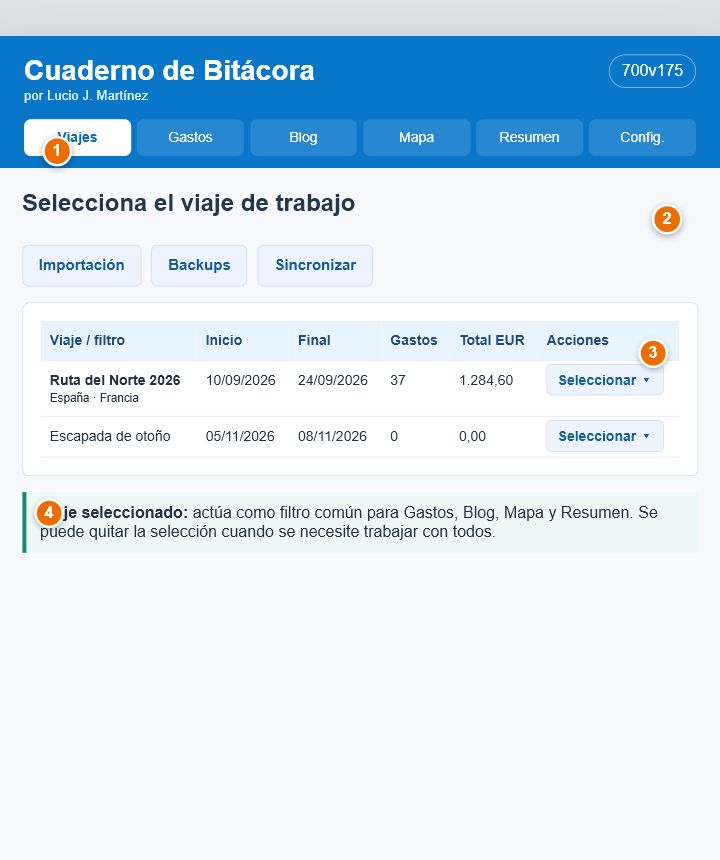
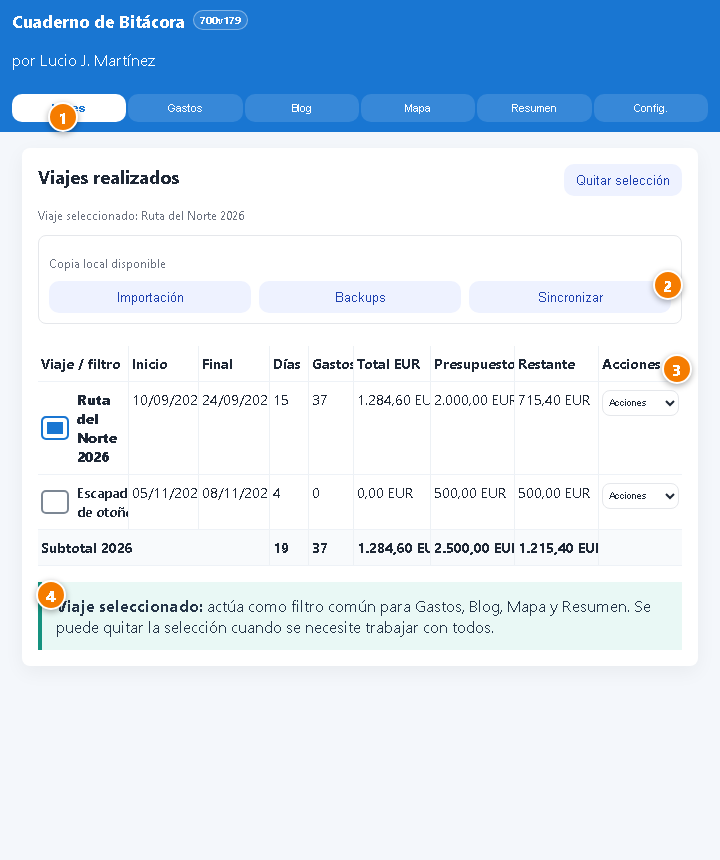
Añadir duración de viajes a la tabla

diff --git a/app.bundle.js b/app.bundle.js
@@ -1,6 +1,6 @@
 const DB_NAME = 'gastos_viaje_db';
 const DB_VERSION = 9;
-const APP_VERSION = '700v178';
+const APP_VERSION = '700v179';
 const BACKUP_KEY = 'gastos_viaje_last_backup';
 const EXPENSE_VIEW_KEY = 'gastos_viaje_expense_view';
 const BACKUP_HISTORY_KEY = 'gastos_viaje_backup_history';
@@ -1564,10 +1564,10 @@ function selectedTrips() {
 
 function inclusiveDateDays(start, end) {
   if (!start || !end) return 0;
-  const startDate = new Date(`${start}T00:00:00`);
-  const endDate = new Date(`${end}T00:00:00`);
-  if (Number.isNaN(startDate.getTime()) || Number.isNaN(endDate.getTime())) return 0;
-  return Math.max(1, Math.ceil((endDate - startDate) / 86400000) + 1);
+  const startTime = Date.parse(`${start}T00:00:00Z`);
+  const endTime = Date.parse(`${end}T00:00:00Z`);
+  if (!Number.isFinite(startTime) || !Number.isFinite(endTime) || endTime < startTime) return 0;
+  return Math.floor((endTime - startTime) / 86400000) + 1;
 }
 
 function summaryDays(gastos) {
@@ -1794,7 +1794,7 @@ async function imageGpsForFile(file, options = {}) {
   if (point === undefined) {
     point = null;
     try {
-      imageLocationModulePromise ||= import('./image-location.js?v=700v178');
+      imageLocationModulePromise ||= import('./image-location.js?v=700v179');
       const locationReader = await imageLocationModulePromise;
       const exifPoint = await locationReader.extractImageGps(file);
       point = exifPoint ? { ...exifPoint, source: 'exif' } : null;
@@ -1826,7 +1826,7 @@ async function imageDateTimeForFile(file) {
   if (imageDateTimeCache.has(file)) return imageDateTimeCache.get(file);
   let captured = null;
   try {
-    imageLocationModulePromise ||= import('./image-location.js?v=700v178');
+    imageLocationModulePromise ||= import('./image-location.js?v=700v179');
     const locationReader = await imageLocationModulePromise;
     captured = await locationReader.extractImageDateTime(file);
   } catch (error) {
@@ -2269,7 +2269,7 @@ async function readExpenseTicket(prefix) {
     button.disabled = true;
     button.textContent = 'Leyendo…';
     setTicketOcrStatus(prefix, 'La lectura se realiza íntegramente en este dispositivo.');
-    ticketOcrModulePromise ||= import('./ticket-ocr.js?v=700v178');
+    ticketOcrModulePromise ||= import('./ticket-ocr.js?v=700v179');
     const ocr = await ticketOcrModulePromise;
     const result = await ocr.recognizeTicket(source.source, {
       type: source.type,
@@ -4940,7 +4940,7 @@ function renderViajesHome() {
   info.textContent = selectedTripsLabel();
   if (!state.viajes.length) {
     const tr = document.createElement('tr');
-    tr.innerHTML = '<td colspan="8">Todavía no hay viajes. Puedes crearlos en Configuración.</td>';
+    tr.innerHTML = '<td colspan="9">Todavía no hay viajes. Puedes crearlos en Configuración.</td>';
     tbody.appendChild(tr);
     return;
   }
@@ -4954,30 +4954,33 @@ function renderViajesHome() {
     const yearChecked = yearTrips.every(v => selectedIds.has(v.id));
     const header = document.createElement('tr');
     header.className = 'group-row';
-    header.innerHTML = `<td><label class="trip-check"><input type="checkbox" data-trip-year="${escapeHtml(year)}"${yearChecked ? ' checked' : ''}> <span>Año ${escapeHtml(year)}</span></label></td><td colspan="7">Selecciona el año para sumar todos sus viajes</td>`;
+    header.innerHTML = `<td><label class="trip-check"><input type="checkbox" data-trip-year="${escapeHtml(year)}"${yearChecked ? ' checked' : ''}> <span>Año ${escapeHtml(year)}</span></label></td><td colspan="8">Selecciona el año para sumar todos sus viajes</td>`;
     tbody.appendChild(header);
     const yearInput = header.querySelector('input[data-trip-year]');
     let yearExpenses = 0;
+    let yearDays = 0;
     let yearTotal = 0;
     let yearBudget = 0;
     yearTrips.forEach(v => {
       const expenses = state.gastos.filter(g => g.viajeId === v.id);
+      const days = inclusiveDateDays(v.fechaInicio, v.fechaFin);
       const total = expenses.reduce((sum, g) => sum + toEur(g.importe, g.moneda), 0);
       const budget = effectiveTripBudget(v);
       const remaining = budget ? budget - total : null;
       yearExpenses += expenses.length;
+      yearDays += days;
       yearTotal += total;
       yearBudget += budget;
       const tr = document.createElement('tr');
       if (remaining !== null && remaining < 0) tr.className = 'warning-row';
       const documentCount = tripDocumentsFor(v.id).length;
-      tr.innerHTML = `<td><label class="trip-check"><input type="checkbox" data-trip-check="${v.id}"${selectedIds.has(v.id) ? ' checked' : ''}> <span>${escapeHtml(v.nombre)}</span></label></td><td>${fmtDate(v.fechaInicio)}</td><td>${fmtDate(v.fechaFin)}</td><td>${expenses.length}</td><td>${fmtCurrency(total, 'EUR')}</td><td>${budget ? fmtCurrency(budget, 'EUR') : '-'}</td><td>${remaining === null ? '-' : fmtCurrency(remaining, 'EUR')}</td><td class="trip-home-actions"><select class="trip-home-action-select" data-trip-home-action="${v.id}" aria-label="Acciones de ${escapeHtml(v.nombre)}"><option value="">Acciones</option><option value="review">Revisar viaje</option><option value="documents">Documentos viaje (${documentCount})</option><option value="edit">Editar</option></select></td>`;
+      tr.innerHTML = `<td><label class="trip-check"><input type="checkbox" data-trip-check="${v.id}"${selectedIds.has(v.id) ? ' checked' : ''}> <span>${escapeHtml(v.nombre)}</span></label></td><td>${fmtDate(v.fechaInicio)}</td><td>${fmtDate(v.fechaFin)}</td><td>${days || '-'}</td><td>${expenses.length}</td><td>${fmtCurrency(total, 'EUR')}</td><td>${budget ? fmtCurrency(budget, 'EUR') : '-'}</td><td>${remaining === null ? '-' : fmtCurrency(remaining, 'EUR')}</td><td class="trip-home-actions"><select class="trip-home-action-select" data-trip-home-action="${v.id}" aria-label="Acciones de ${escapeHtml(v.nombre)}"><option value="">Acciones</option><option value="review">Revisar viaje</option><option value="documents">Documentos viaje (${documentCount})</option><option value="edit">Editar</option></select></td>`;
       tbody.appendChild(tr);
     });
     const subtotal = document.createElement('tr');
     const yearRemaining = yearBudget ? yearBudget - yearTotal : null;
     subtotal.className = yearRemaining !== null && yearRemaining < 0 ? 'warning-row' : 'subtotal-row';
-    subtotal.innerHTML = `<td colspan="3">Subtotal ${escapeHtml(year)}</td><td>${yearExpenses}</td><td>${fmtCurrency(yearTotal, 'EUR')}</td><td>${yearBudget ? fmtCurrency(yearBudget, 'EUR') : '-'}</td><td>${yearRemaining === null ? '-' : fmtCurrency(yearRemaining, 'EUR')}</td><td></td>`;
+    subtotal.innerHTML = `<td colspan="3">Subtotal ${escapeHtml(year)}</td><td>${yearDays || '-'}</td><td>${yearExpenses}</td><td>${fmtCurrency(yearTotal, 'EUR')}</td><td>${yearBudget ? fmtCurrency(yearBudget, 'EUR') : '-'}</td><td>${yearRemaining === null ? '-' : fmtCurrency(yearRemaining, 'EUR')}</td><td></td>`;
     tbody.appendChild(subtotal);
     if (yearInput) yearInput.indeterminate = !yearChecked && yearTrips.some(v => selectedIds.has(v.id));
   });

diff --git a/tests/trip-days.test.js b/tests/trip-days.test.js
@@ -1,0 +1,25 @@
+import assert from 'node:assert/strict';
+import { readFile } from 'node:fs/promises';
+import test from 'node:test';
+
+const [app, html, help] = await Promise.all([
+  readFile(new URL('../app.bundle.js', import.meta.url), 'utf8'),
+  readFile(new URL('../index.html', import.meta.url), 'utf8'),
+  readFile(new URL('../ayuda.html', import.meta.url), 'utf8')
+]);
+
+test('Viajes muestra y suma la duración inclusiva de cada viaje', () => {
+  const functionSource = app.match(/function inclusiveDateDays\(start, end\) \{[\s\S]*?\n\}/)?.[0];
+  assert.ok(functionSource, 'Falta el cálculo de días inclusivos');
+  const inclusiveDateDays = Function(`${functionSource}; return inclusiveDateDays;`)();
+
+  assert.equal(inclusiveDateDays('2026-07-10', '2026-07-10'), 1);
+  assert.equal(inclusiveDateDays('2026-07-10', '2026-07-12'), 3);
+  assert.equal(inclusiveDateDays('2026-10-24', '2026-10-26'), 3);
+  assert.equal(inclusiveDateDays('', '2026-07-12'), 0);
+  assert.equal(inclusiveDateDays('2026-07-12', '2026-07-10'), 0);
+  assert.match(html, /<th>Final<\/th><th>Días<\/th><th>Gastos<\/th>/);
+  assert.match(app, /let yearDays = 0;[\s\S]*?yearDays \+= days;/);
+  assert.match(app, /Subtotal \$\{escapeHtml\(year\)\}<\/td><td>\$\{yearDays \|\| '-'\}<\/td><td>\$\{yearExpenses\}/);
+  assert.match(help, /Duración del viaje calculada entre Inicio y Final, contando ambos días/);
+});

diff --git a/tests/storage.test.js b/tests/storage.test.js
@@ -11,17 +11,17 @@ const [html, app, help, sw, version, pkg] = await Promise.all([
   readFile(new URL('../package.json', import.meta.url), 'utf8')
 ]);
 
-test('la versiÃ³n 700v178 estÃ¡ alineada en app, cache y paquete', () => {
-  assert.equal(version.trim(), '700v178');
-  assert.match(pkg, /"version": "700\.178\.0"/);
-  assert.match(html, /styles\.css\?v=700v178/);
-  assert.match(html, /app\.bundle\.js\?v=700v178/);
-  assert.match(html, /map-model\.js\?v=700v178/);
-  assert.match(html, /sw\.js\?v=700v178/);
-  assert.match(app, /const APP_VERSION = '700v178'/);
-  assert.match(app, /image-location\.js\?v=700v178/);
-  assert.match(app, /ticket-ocr\.js\?v=700v178/);
-  assert.match(sw, /gastosdeviaje-700v178/);
+test('la versiÃ³n 700v179 estÃ¡ alineada en app, cache y paquete', () => {
+  assert.equal(version.trim(), '700v179');
+  assert.match(pkg, /"version": "700\.179\.0"/);
+  assert.match(html, /styles\.css\?v=700v179/);
+  assert.match(html, /app\.bundle\.js\?v=700v179/);
+  assert.match(html, /map-model\.js\?v=700v179/);
+  assert.match(html, /sw\.js\?v=700v179/);
+  assert.match(app, /const APP_VERSION = '700v179'/);
+  assert.match(app, /image-location\.js\?v=700v179/);
+  assert.match(app, /ticket-ocr\.js\?v=700v179/);
+  assert.match(sw, /gastosdeviaje-700v179/);
   assert.doesNotMatch(html + app + sw, /700v136|700v135|700v134|700v133|700v132|700v131|700v128/);
 });
 

diff --git a/index.html b/index.html
@@ -4,9 +4,9 @@
   <meta charset="utf-8">
   <meta name="viewport" content="width=device-width,initial-scale=1">
   <title>Cuaderno de Bitácora por Lucio J Martínez</title>
-  <link rel="manifest" href="manifest.webmanifest?v=700v178">
+  <link rel="manifest" href="manifest.webmanifest?v=700v179">
   <link rel="stylesheet" href="vendor/maplibre/maplibre-gl.css?v=5.24.0">
-  <link rel="stylesheet" href="styles.css?v=700v178">
+  <link rel="stylesheet" href="styles.css?v=700v179">
   <link rel="preload" as="image" href="assets/bitacora-splash-mobile.png" media="(max-width: 640px)">
   <meta name="theme-color" content="#fffaf4">
   <link rel="icon" href="assets/app-icon-192.png" type="image/png">
@@ -25,7 +25,7 @@
     <span></span>
   </div>
   <p>Preparando el viaje...</p>
-  <div class="app-loading-release"><strong>Versión 700v178 · 18/07/2026</strong></div>
+  <div class="app-loading-release"><strong>Versión 700v179 · 18/07/2026</strong></div>
 </div>
 <header>
   <a class="help-link header-help" href="ayuda.html">Ayuda</a>
@@ -39,7 +39,7 @@
     <button id="tab-config"><span class="desktop-label">Configuración</span><span class="mobile-label">Config.</span></button>
     <a class="help-link nav-help" href="ayuda.html">Ayuda</a>
   </nav>
-  <div class="app-version">700v178</div>
+  <div class="app-version">700v179</div>
 </header>
 
 <div id="offline-status" class="offline-status" role="status" aria-live="polite" hidden>
@@ -59,7 +59,7 @@
         <span class="backup-actions"><button class="btn ghost" id="btn-import-home" onclick="openBackupDialogSafe('import')" type="button">Importación</button><button class="btn ghost" id="btn-backup-home" onclick="openBackupDialogSafe('backup')" type="button">Backups</button><button class="btn ghost" id="btn-sync-home" type="button">Sincronizar</button></span>
       </div>
       <div class="table-wrap">
-        <table id="tabla-viajes-home"><thead><tr><th>Viaje / filtro</th><th>Inicio</th><th>Final</th><th>Gastos</th><th>Total EUR</th><th>Presupuesto</th><th>Restante</th><th>Acciones</th></tr></thead><tbody></tbody></table>
+        <table id="tabla-viajes-home"><thead><tr><th>Viaje / filtro</th><th>Inicio</th><th>Final</th><th>Días</th><th>Gastos</th><th>Total EUR</th><th>Presupuesto</th><th>Restante</th><th>Acciones</th></tr></thead><tbody></tbody></table>
       </div>
     </div>
   </section>
@@ -932,11 +932,11 @@
 </dialog>
 
 <script src="vendor/maplibre/maplibre-gl.js?v=5.24.0"></script>
-<script src="map-model.js?v=700v178"></script>
-<script src="app.bundle.js?v=700v178"></script>
+<script src="map-model.js?v=700v179"></script>
+<script src="app.bundle.js?v=700v179"></script>
 <script>
   if ('serviceWorker' in navigator) {
-    const pageVersion = '700v178';
+    const pageVersion = '700v179';
     const hadControllerAtStart = Boolean(navigator.serviceWorker.controller);
     let refreshing = false;
     let pendingUpdateVersion = '';
@@ -988,7 +988,7 @@
       }
     });
     window.addEventListener('load', () => {
-      navigator.serviceWorker.register('./sw.js?v=700v178', { updateViaCache: 'none' })
+      navigator.serviceWorker.register('./sw.js?v=700v179', { updateViaCache: 'none' })
         .then(registration => {
           activateWaitingWorker(registration);
           registration.update()

diff --git a/sw.js b/sw.js
@@ -1,17 +1,17 @@
-const APP_VERSION = '700v178';
-const CACHE_NAME = 'gastosdeviaje-700v178-offline-start';
+const APP_VERSION = '700v179';
+const CACHE_NAME = 'gastosdeviaje-700v179-offline-start';
 const MAP_RUNTIME_CACHE = 'cuaderno-bitacora-map-runtime-v1';
 const SHARED_FILES_CACHE = 'cuaderno-bitacora-shared-files-v1';
 const SHARE_TARGET_PATH = new URL('./share-target', self.location.href).pathname;
 const APP_SHELL_REQUIRED = [
   './',
   './index.html',
-  './styles.css?v=700v178',
-  './map-model.js?v=700v178',
-  './app.bundle.js?v=700v178',
+  './styles.css?v=700v179',
+  './map-model.js?v=700v179',
+  './app.bundle.js?v=700v179',
   './vendor/maplibre/maplibre-gl.css?v=5.24.0',
   './vendor/maplibre/maplibre-gl.js?v=5.24.0',
-  './manifest.webmanifest?v=700v178',
+  './manifest.webmanifest?v=700v179',
   './version.txt',
   './assets/bitacora-splash.png',
   './assets/bitacora-splash-mobile.png',
@@ -20,8 +20,8 @@ const APP_SHELL_REQUIRED = [
 const APP_SHELL_OPTIONAL = [
   './assets/app-icon-192.png',
   './assets/app-icon-512.png',
-  './ticket-ocr.js?v=700v178',
-  './image-location.js?v=700v178',
+  './ticket-ocr.js?v=700v179',
+  './image-location.js?v=700v179',
   './ayuda.html',
   './assets/help/01-viajes.png',
   './assets/help/02-configuracion.png',

diff --git a/ayuda.html b/ayuda.html
@@ -4,7 +4,7 @@
   <meta charset="utf-8">
   <meta name="viewport" content="width=device-width,initial-scale=1">
   <meta name="theme-color" content="#0876c9">
-  <title>Manual de Cuaderno de Bitácora - 700v178</title>
+  <title>Manual de Cuaderno de Bitácora - 700v179</title>
   <script>
     const helpParams = new URLSearchParams(location.search);
     if (helpParams.get('embedded') === '1') {
@@ -185,7 +185,7 @@
 
     <main class="manual">
       <section class="intro">
-        <p class="doc-meta"><span><strong>Fecha de creación:</strong> 17 de julio de 2026</span><span><strong>Última actualización:</strong> 18 de julio de 2026</span><span><strong>Versión documentada:</strong> 700v178</span></p>
+        <p class="doc-meta"><span><strong>Fecha de creación:</strong> 17 de julio de 2026</span><span><strong>Última actualización:</strong> 18 de julio de 2026</span><span><strong>Versión documentada:</strong> 700v179</span></p>
         <h1>Manual de Cuaderno de Bitácora</h1>
         <p class="lead">Guía para preparar un viaje, registrar gastos y vivencias mientras sucede, conservar la ruta y obtener al final un cuaderno completo con informes, imágenes, mapas y copias de seguridad.</p>
         <div class="callout success"><strong>Cómo usar esta ayuda:</strong> empieza por el <a href="#flujo">flujo recomendado</a>. Cuando aparezca un concepto, sigue su enlace para abrir la explicación detallada de la pantalla, campo o desplegable correspondiente.</div>
@@ -282,6 +282,7 @@
           <div class="table-wrap"><table class="control-table"><thead><tr><th>Columna</th><th>Significado</th></tr></thead><tbody>
             <tr><td>Viaje / filtro</td><td>Casilla de selección y nombre. Puede haber varios seleccionados para comparar Gastos o Resumen; el Blog exige uno solo.</td></tr>
             <tr><td>Inicio / Final</td><td>Fechas configuradas. Se usan para días del viaje, revisiones, mapas y cálculos diarios.</td></tr>
+            <tr><td>Días</td><td>Duración del viaje calculada entre Inicio y Final, contando ambos días. Por ejemplo, del 10 al 12 son 3 días. El subtotal anual suma los días de todos los viajes de ese año.</td></tr>
             <tr><td>Gastos</td><td>Número de movimientos asociados.</td></tr>
             <tr><td>Total EUR</td><td>Total convertido a euros con los cambios guardados.</td></tr>
             <tr><td>Presupuesto / Restante</td><td>Presupuesto global del viaje y diferencia frente al gasto acumulado.</td></tr>
@@ -612,10 +613,10 @@
           <a class="back" href="#indice">Volver al índice</a>
         </div>
 
-        <p class="footer-note"><strong>Manual creado el 17 de julio de 2026 y actualizado el 18 de julio de 2026 para Cuaderno de Bitácora 700v178.</strong> Debe actualizarse cuando cambien pantallas, flujos o comportamientos.</p>
+        <p class="footer-note"><strong>Manual creado el 17 de julio de 2026 y actualizado el 18 de julio de 2026 para Cuaderno de Bitácora 700v179.</strong> Debe actualizarse cuando cambien pantallas, flujos o comportamientos.</p>
       </section>
     </main>
   </div>
-  <div class="print-footer">Cuaderno de Bitácora · Manual 700v178 · 18 de julio de 2026</div>
+  <div class="print-footer">Cuaderno de Bitácora · Manual 700v179 · 18 de julio de 2026</div>
 </body>
 </html>

diff --git a/styles.css b/styles.css
@@ -3703,6 +3703,8 @@ footer {
   #tabla-viajes-home td:nth-child(6),
   #tabla-viajes-home th:nth-child(7),
   #tabla-viajes-home td:nth-child(7),
+  #tabla-viajes-home th:nth-child(8),
+  #tabla-viajes-home td:nth-child(8),
   #tabla-gastos th:nth-child(6),
   #tabla-gastos td:nth-child(6),
   #tabla-gastos th:nth-child(7),

diff --git a/tests/help.test.js b/tests/help.test.js
@@ -14,7 +14,7 @@ test('la ayuda identifica fecha y versión y contiene las tres partes principale
 
   assert.match(html, /Fecha de creación:<\/strong> 17 de julio de 2026/);
   assert.match(html, /Última actualización:<\/strong> 18 de julio de 2026/);
-  assert.match(html, /Versión documentada:<\/strong> 700v178/);
+  assert.match(html, /Versión documentada:<\/strong> 700v179/);
   assert.match(html, /id="objetivo"/);
   assert.match(html, /1\. Objetivo y filosofía de la aplicación/);
   assert.match(html, /id="flujo"/);

diff --git a/tests/offline.test.js b/tests/offline.test.js
@@ -59,7 +59,7 @@ test('una versión nueva provoca una sola recarga después de activar su service
   assert.match(html, /pendingUpdateVersion = latestVersion;[\s\S]*?await registration\.update\(\)/);
   assert.match(html, /APP_VERSION_ACTIVE[\s\S]*?reloadForUpdate\(activeVersion\)/);
   assert.match(html, /controllerchange[\s\S]*?postMessage\(\{ type: 'GET_APP_VERSION' \}\)/);
-  assert.match(sw, /const APP_VERSION = '700v178'/);
+  assert.match(sw, /const APP_VERSION = '700v179'/);
   assert.match(sw, /GET_APP_VERSION[\s\S]*?APP_VERSION_ACTIVE/);
   assert.doesNotMatch(html, /window\.location\.reload\(\)/);
 });

diff --git a/tests/splash.test.js b/tests/splash.test.js
@@ -21,7 +21,7 @@ test('el arranque conserva el entorno, coloca el credito bajo el tren y dura cua
   ]);
   assert.match(html, /rel="preload"[\s\S]*?bitacora-splash-mobile\.png/);
   assert.match(html, /app-loading-train-group[\s\S]*?app-loading-train[\s\S]*?app-loading-credit/);
-  assert.match(html, /Preparando el viaje\.\.\.[\s\S]*?<strong>Versión 700v178 · 18\/07\/2026<\/strong>/);
+  assert.match(html, /Preparando el viaje\.\.\.[\s\S]*?<strong>Versión 700v179 · 18\/07\/2026<\/strong>/);
   assert.match(styles, /\.app-loading-release strong \{[\s\S]*?font-weight: 800/);
   assert.match(styles, /\.app-loading-release \{[\s\S]*?top: calc\(76svh \+ 48px\)/);
   assert.match(app, /const APP_LOADING_MIN_MS = 4000/);